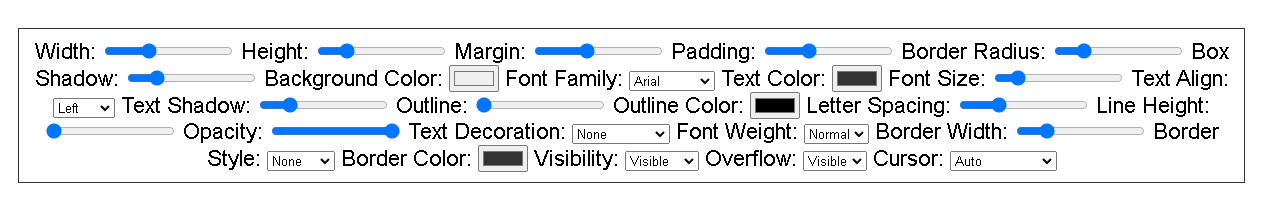
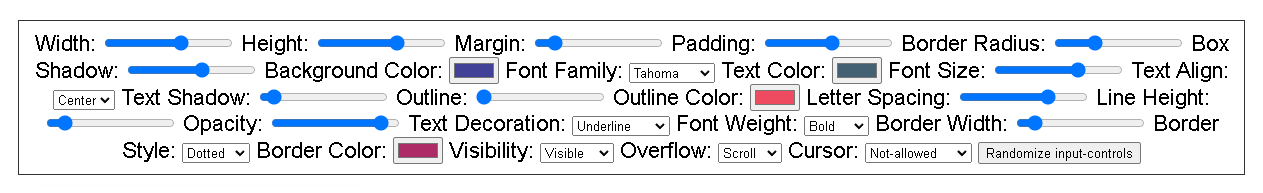
Input-controls with randomization button update in README.md

Changed region(s): [[0.0309, 0.1865, 0.9889, 0.9326], [0.0, 0.0933, 0.9889, 0.1554]]

diff --git a/README.md b/README.md
@@ -17,7 +17,7 @@ CSS Property Adjuster is a website and tool to facilitate web styling and design
 
 - The Input-controls
 
-  - The main content of the page features input-controls enabling to customize the following CSS properties: width, height, margin, padding, border-radius, box-shadow, background, font-family, color, font-size, text-align, text-shadow, outline, letter-spacing, line-height, opacity, text-decoration, font-weight, border-width, border-style, border-color, visibility, overflow, and cursor.
+  - The main content of the page features input-controls enabling to customize the following CSS properties: width, height, margin, padding, border-radius, box-shadow, background, font-family, color, font-size, text-align, text-shadow, outline, letter-spacing, line-height, opacity, text-decoration, font-weight, border-width, border-style, border-color, visibility, overflow, and cursor. There is also a randomization button to configure them automatically.
 
   ![Input-controls](https://linobollansee.github.io/css-property-adjuster/readme/media/css-property-adjuster-input-controls.png)
 
